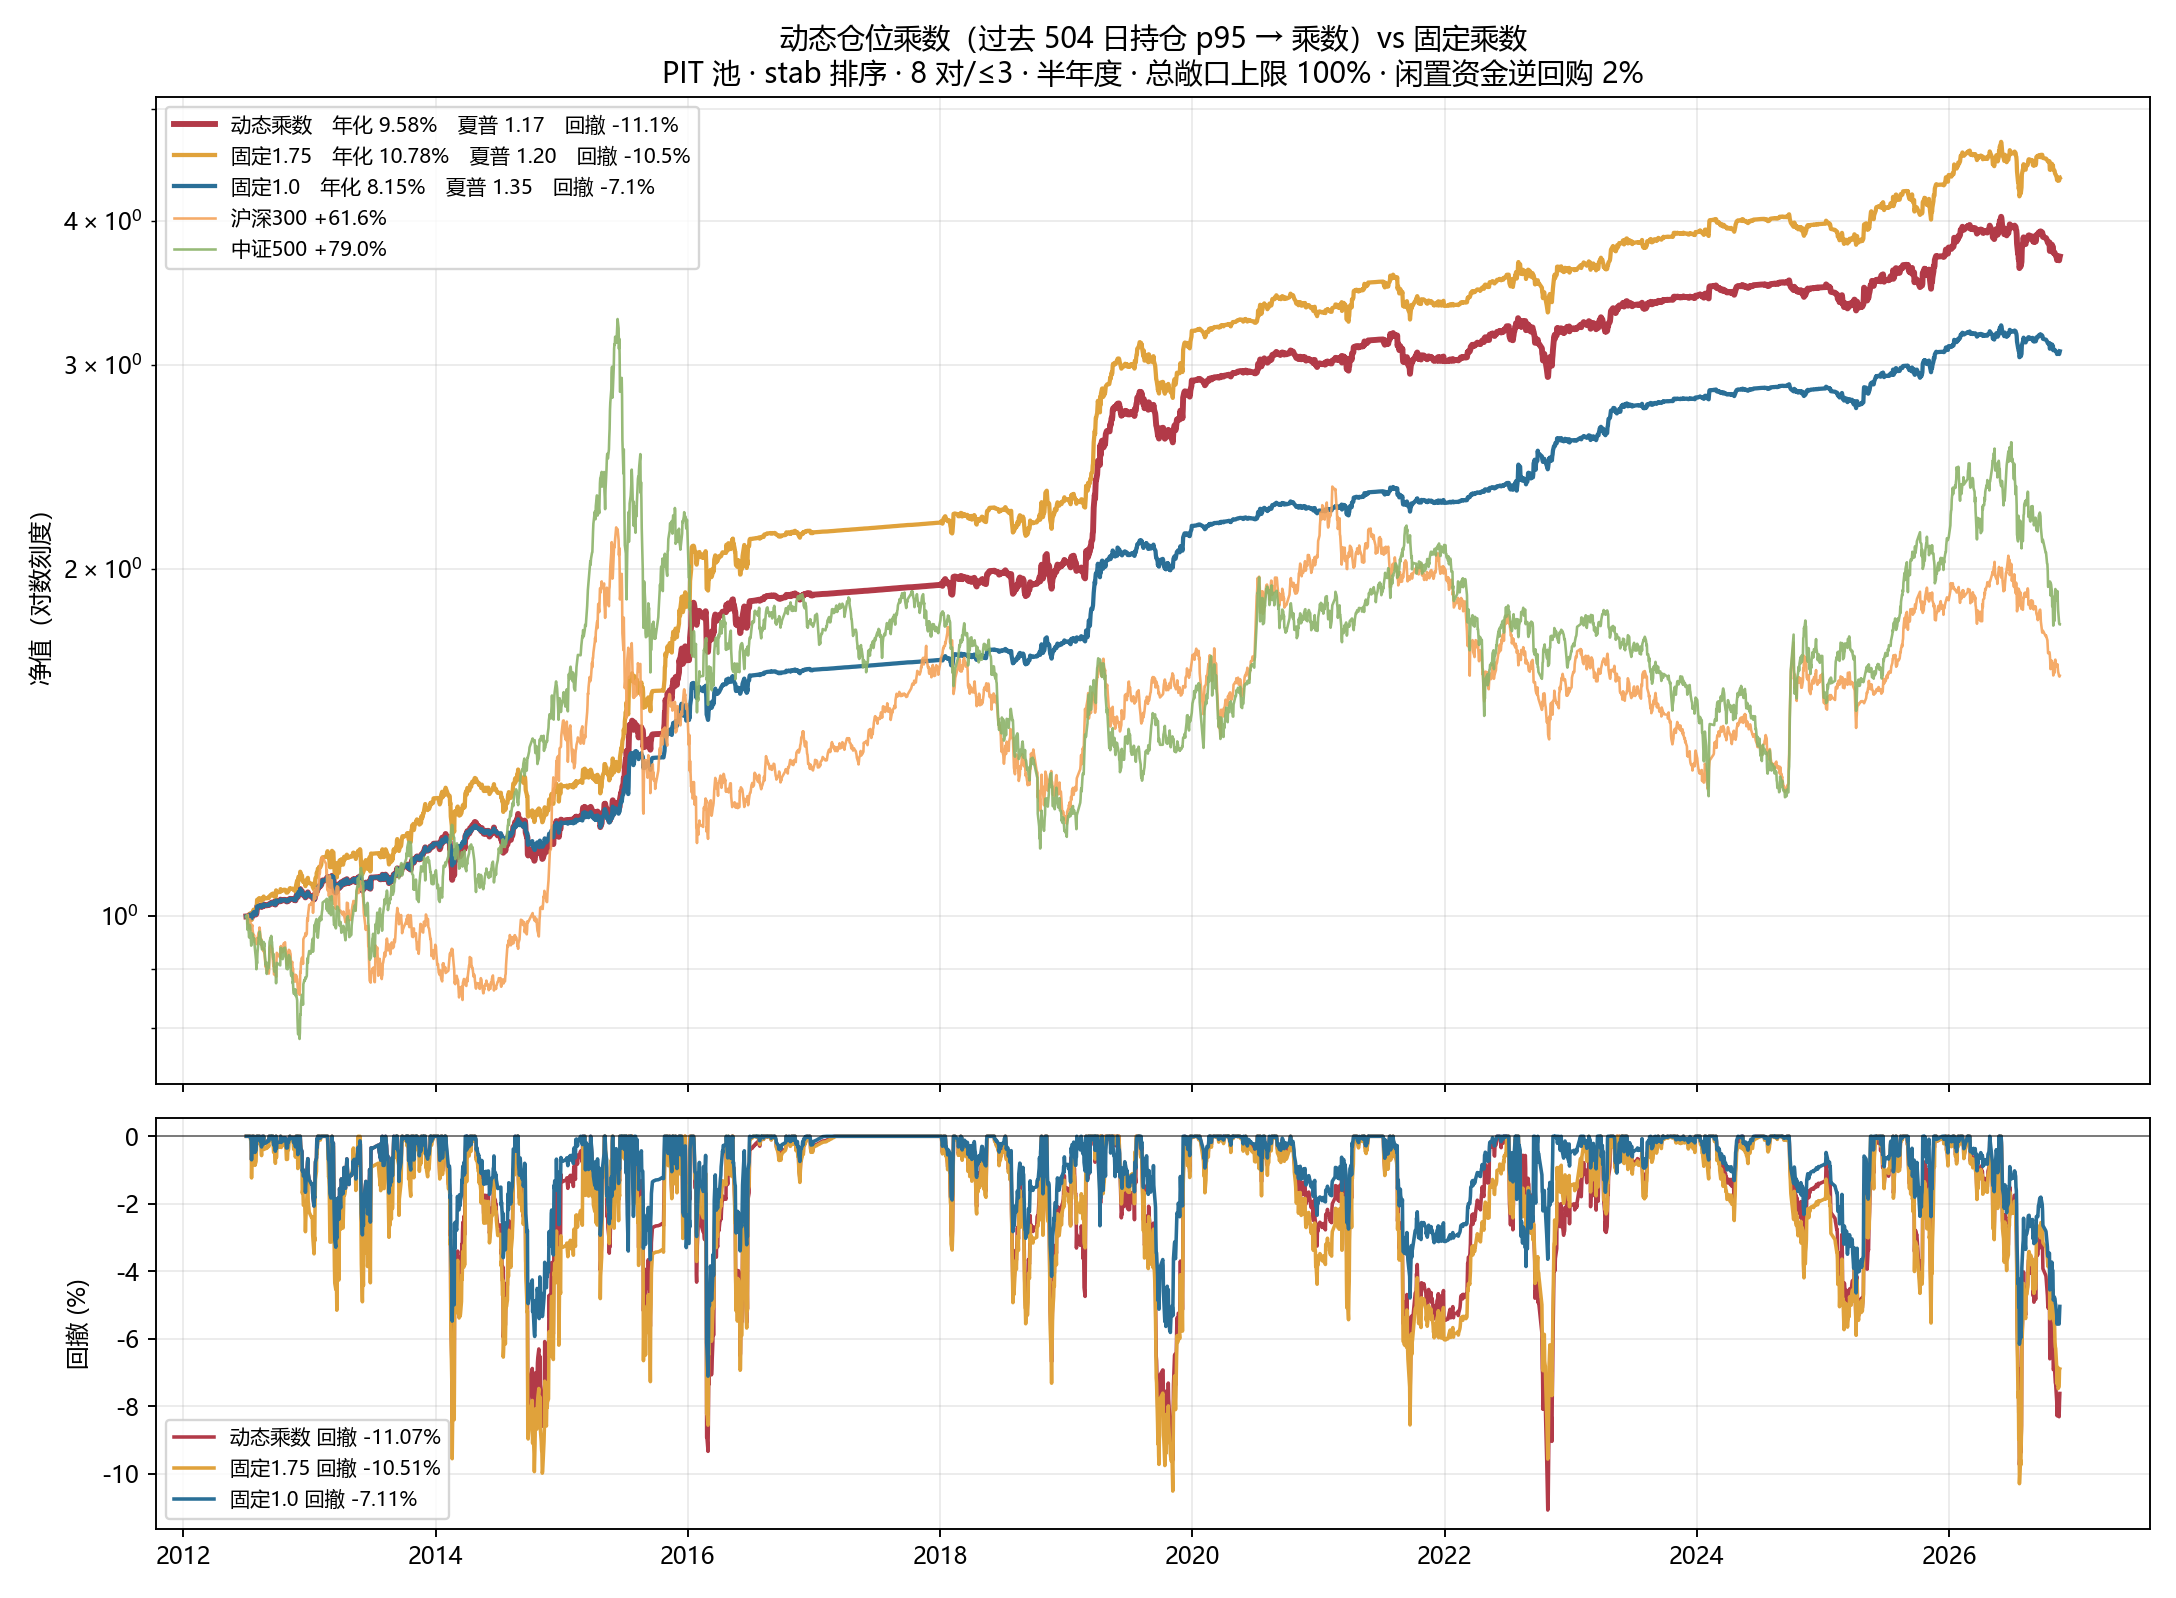
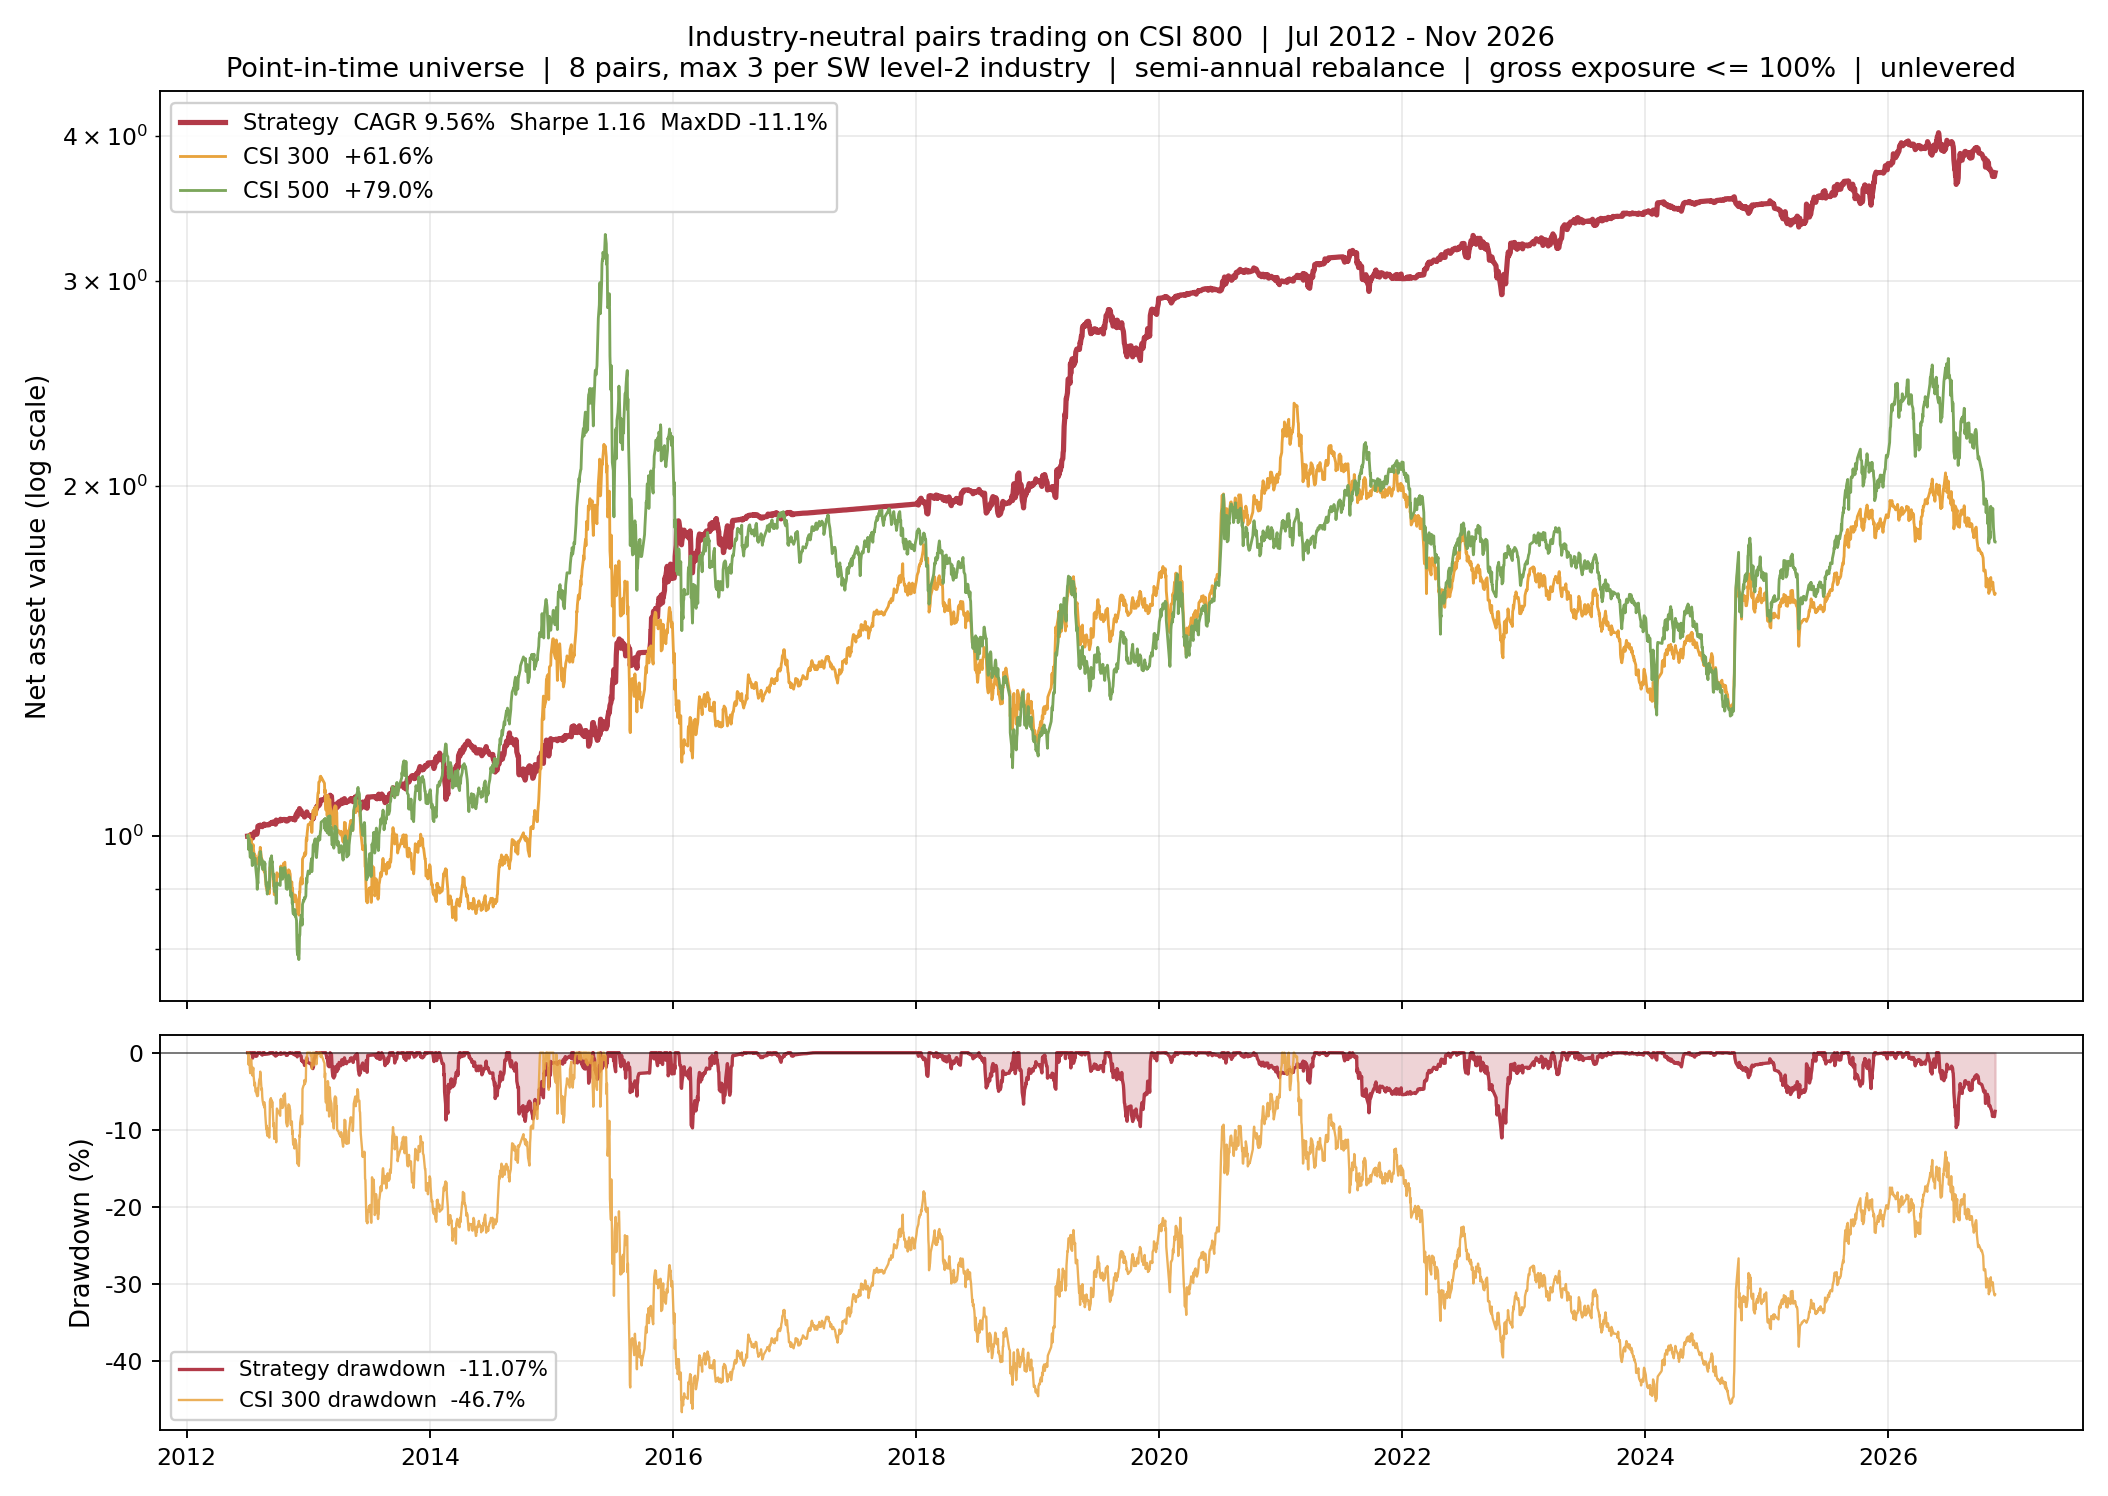
docs: single-configuration results table; English-labelled figure

diff --git a/src/plot_results.py b/src/plot_results.py
@@ -1,0 +1,70 @@
+"""Regenerate README figures from the backtest output.
+
+Usage:
+    python src/plot_results.py
+"""
+import os
+
+import matplotlib
+import numpy as np
+import pandas as pd
+
+matplotlib.use("Agg")
+import matplotlib.pyplot as plt
+
+from config import DATA, OUT
+
+plt.rcParams["font.family"] = "DejaVu Sans"
+plt.rcParams["axes.unicode_minus"] = False
+
+curves = pd.read_csv(os.path.join(OUT, "equity_curves.csv"), index_col=0, parse_dates=True)
+idx = pd.read_parquet(os.path.join(DATA, "index_long.parquet")).sort_index()
+
+COL = "dynamic_multiplier"
+s = curves[COL].dropna()
+start = s.index[0]
+
+b300 = idx["hs300"].loc[idx.index >= start]
+b500 = idx["csi500"].loc[idx.index >= start]
+b300 = b300 / b300.iloc[0]
+b500 = b500 / b500.iloc[0]
+
+r = s.pct_change().dropna()
+yrs = (s.index[-1] - s.index[0]).days / 365.25
+cagr = (s.iloc[-1] ** (1 / yrs) - 1) * 100
+sharpe = float(r.mean() / r.std() * np.sqrt(252))
+dd = (s / s.cummax() - 1) * 100
+
+fig, (ax1, ax2) = plt.subplots(2, 1, figsize=(12.4, 8.8), sharex=True,
+                               gridspec_kw={"height_ratios": [2.3, 1.0]})
+
+ax1.plot(s.index, s.values, lw=2.2, color="#B23A48",
+         label=f"Strategy  CAGR {cagr:.2f}%  Sharpe {sharpe:.2f}  MaxDD {dd.min():.1f}%")
+ax1.plot(b300.index, b300.values, lw=1.2, color="#E8A33D",
+         label=f"CSI 300  {b300.iloc[-1] * 100 - 100:+.1f}%")
+ax1.plot(b500.index, b500.values, lw=1.2, color="#7CA65B",
+         label=f"CSI 500  {b500.iloc[-1] * 100 - 100:+.1f}%")
+ax1.set_yscale("log")
+ax1.set_ylabel("Net asset value (log scale)", fontsize=11)
+ax1.set_title(
+    "Industry-neutral pairs trading on CSI 800  |  Jul 2012 - Nov 2026\n"
+    "Point-in-time universe  |  8 pairs, max 3 per SW level-2 industry  |  "
+    "semi-annual rebalance  |  gross exposure <= 100%  |  unlevered",
+    fontsize=11.5)
+ax1.legend(fontsize=9.5, loc="upper left", framealpha=0.92)
+ax1.grid(alpha=0.25, which="both")
+
+ax2.fill_between(dd.index, dd.values, 0, color="#B23A48", alpha=0.22)
+ax2.plot(dd.index, dd.values, lw=1.4, color="#B23A48",
+         label=f"Strategy drawdown  {dd.min():.2f}%")
+d300 = (b300 / b300.cummax() - 1) * 100
+ax2.plot(d300.index, d300.values, lw=1.0, color="#E8A33D", alpha=0.85,
+         label=f"CSI 300 drawdown  {d300.min():.1f}%")
+ax2.axhline(0, lw=0.8, color="k", alpha=0.5)
+ax2.set_ylabel("Drawdown (%)", fontsize=11)
+ax2.legend(fontsize=9, loc="lower left", framealpha=0.92)
+ax2.grid(alpha=0.25)
+
+fig.tight_layout()
+fig.savefig(os.path.join(OUT, "equity_curve.png"), dpi=170)
+print("saved results/equity_curve.png")

diff --git a/README.md b/README.md
@@ -11,12 +11,12 @@ Backtest window: **July 2012 – November 2026 (14.4 years)**, CSI 800 universe,
 
 ## Results
 
-| Configuration | CAGR | Vol | Sharpe | Max DD | Alpha vs HS300 | t | Beta |
-|---|---|---|---|---|---|---|---|
-| **Dynamic position multiplier** | **9.56%** | 8.48% | **1.16** | −11.07% | 9.47% | **4.16** | +0.000 |
-| Fixed multiplier (1.0×, no sizing) | 8.15% | 6.14% | **1.35** | −7.11% | 8.13% | 4.93 | −0.001 |
+| CAGR | Vol | Sharpe | Max DD | Alpha vs HS300 | t | Beta |
+|---|---|---|---|---|---|---|
+| **9.56%** | 8.48% | **1.16** | **−11.07%** | 9.47% | **4.16** | +0.000 |
 
-Both configurations are unlevered: total notional never exceeds 100% of equity.
+Total return **+311%** over 14.4 years. Unlevered: total notional never exceeds
+100% of equity.
 
 ![Equity curve](results/equity_curve.png)
 
@@ -167,10 +167,11 @@ src/
   04_build_pairs.py    candidates: EG pre-screen, Johansen, both gates, metrics
   engine.py            portfolio simulator
   05_backtest.py       end-to-end run
+  plot_results.py      regenerate the figure
 results/
   equity_curve.png     cumulative return vs benchmarks
   summary.csv          headline statistics
-  equity_curves.csv    daily equity for both configurations
+  equity_curves.csv    daily equity series
 data/                  (not committed — rebuilt by 01–04)
 ```
 
@@ -207,12 +208,11 @@ python src/05_backtest.py
 
 ## 结果
 
-| 配置 | 年化 | 波动 | 夏普 | 最大回撤 | 超额(vs 沪深300) | t | Beta |
-|---|---|---|---|---|---|---|---|
-| **动态仓位乘数** | **9.56%** | 8.48% | **1.16** | −11.07% | 9.47% | **4.16** | +0.000 |
-| 固定乘数（1.0×，不调节） | 8.15% | 6.14% | **1.35** | −7.11% | 8.13% | 4.93 | −0.001 |
+| 年化 | 波动 | 夏普 | 最大回撤 | 超额(vs 沪深300) | t | Beta |
+|---|---|---|---|---|---|---|
+| **9.56%** | 8.48% | **1.16** | **−11.07%** | 9.47% | **4.16** | +0.000 |
 
-两种配置都不加杠杆：总名义敞口始终不超过权益的 100%。
+14.4 年累计收益 **+311%**。不加杠杆：总名义敞口始终不超过权益的 100%。
 
 ## 方法
 
@@ -339,10 +339,11 @@ src/
   04_build_pairs.py    候选配对：EG 粗筛、Johansen、两道门槛、全部指标
   engine.py            组合模拟引擎
   05_backtest.py       端到端回测
+  plot_results.py      重新生成图表
 results/
   equity_curve.png     净值曲线与基准
   summary.csv          汇总统计
-  equity_curves.csv    两种配置的每日净值
+  equity_curves.csv    每日净值序列
 data/                  （不提交，由 01–04 重新生成）
 ```
 
